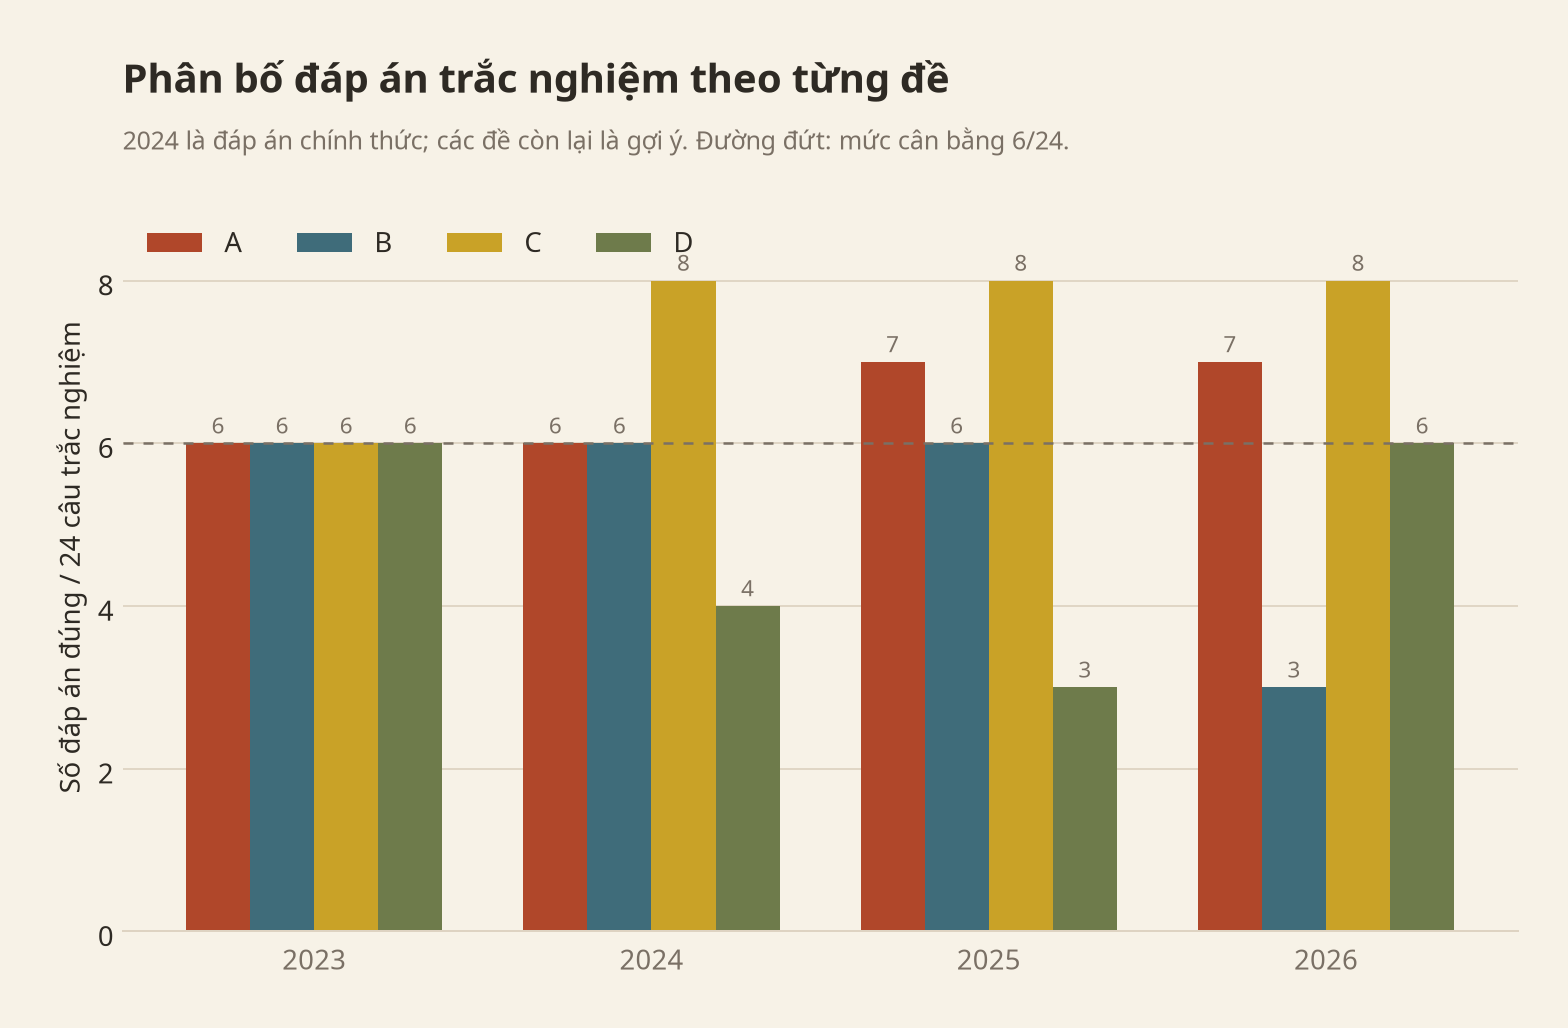
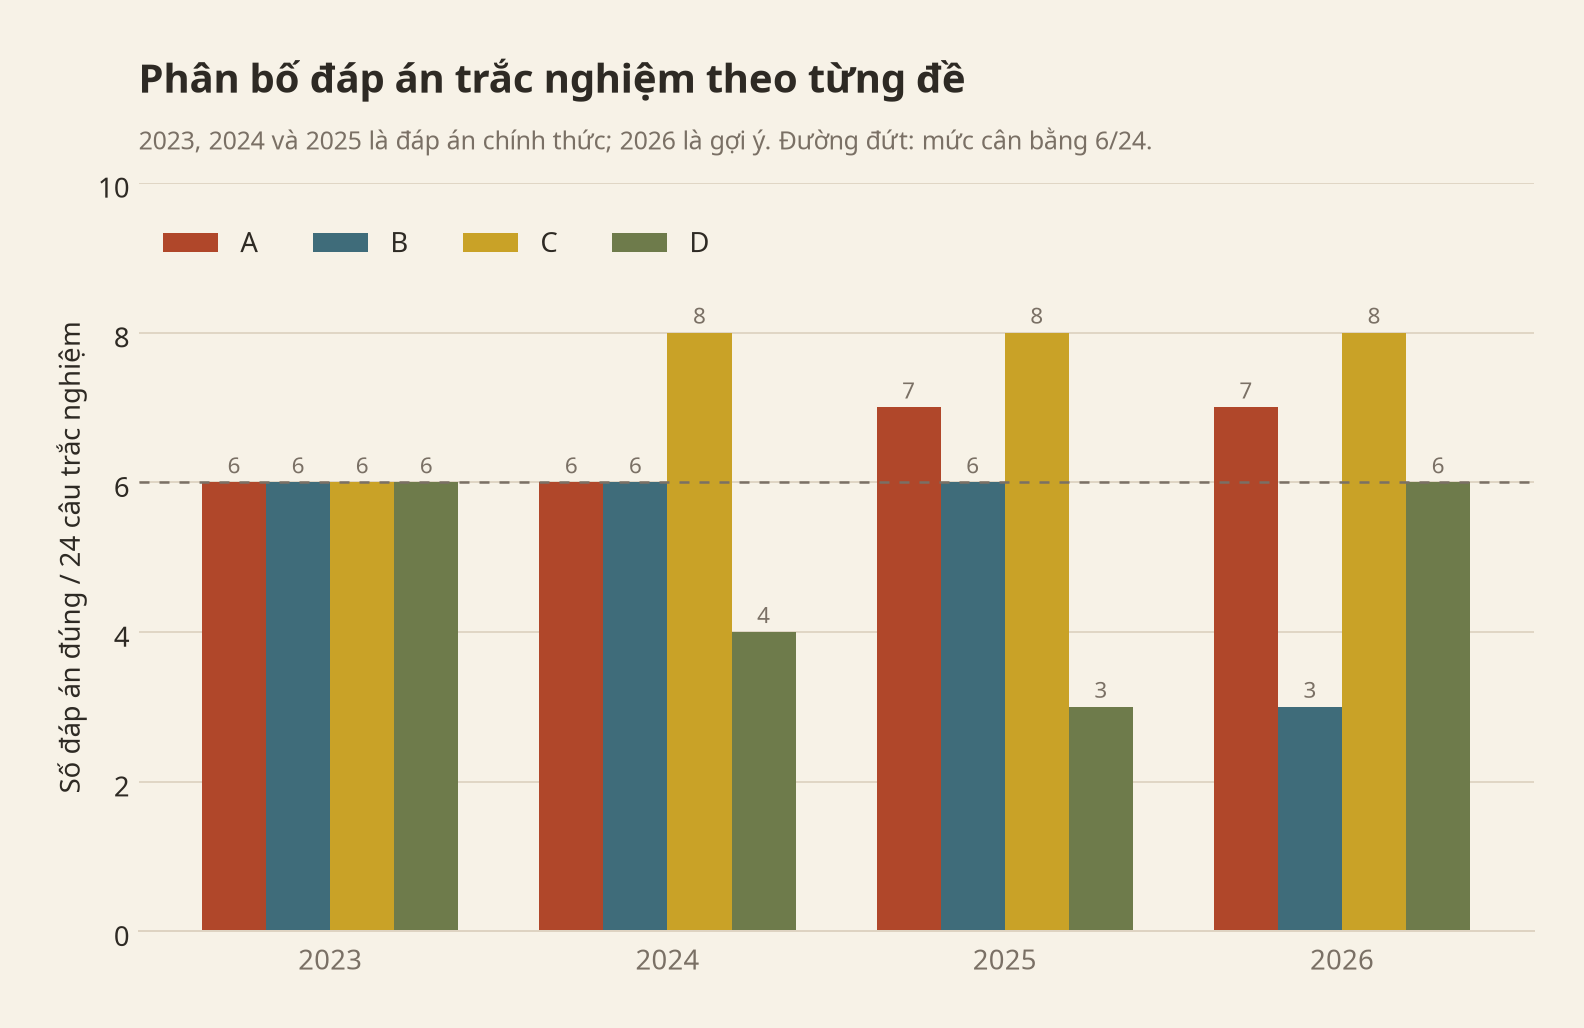
Mark 2023 and 2025 answer keys as official

diff --git a/bao-cao-phan-tich.html b/bao-cao-phan-tich.html
@@ -76,13 +76,12 @@ số thống kê.</li>
 thống kê theo từng phần.</li>
 </ul>
 <blockquote>
-<p><strong>Về đáp án:</strong> chỉ đề 2024–2025 có đáp án chính thức ở
-cuối PDF. Các đề 2023, 2025 và 2026 không kèm đáp án, nên phần đáp án
-trong báo cáo do người viết tự giải và được ghi rõ là <strong>gợi
-ý</strong>. Khi dùng để dạy hoặc ôn tập, thầy cô và học sinh nên đối
-chiếu lại với đáp án của Sở nếu có. Đề tham khảo 2026 gần như trùng với
-đề chính thức, nên chỉ dùng để kiểm chứng, không tính riêng trong thống
-kê.</p>
+<p><strong>Về đáp án:</strong> đề 2023, 2024 và 2025 đã có đáp án chính
+thức của Sở GD&amp;ĐT TP.HCM. Đáp án 2026 không có trong PDF đề nên vẫn
+là <strong>gợi ý</strong> của người viết; đề tham khảo 2026 gần như
+trùng với đề chính thức nên được dùng để kiểm chứng. Khi dạy hoặc ôn
+tập, thầy cô và học sinh nên ưu tiên đáp án chính thức; với 2026, nên
+kiểm tra lại với đáp án của Sở nếu có.</p>
 </blockquote>
 <hr />
 <h2 id="những-điểm-chính">1. Những điểm chính</h2>
@@ -156,7 +155,7 @@ loại</h2>
 <td>2023</td>
 <td>Chính thức</td>
 <td>4</td>
-<td>Tự giải – gợi ý</td>
+<td><strong>Chính thức</strong> (PDF đáp án)</td>
 </tr>
 <tr>
 <td><code>de-tieng-anh-2776.pdf</code></td>
@@ -170,7 +169,7 @@ loại</h2>
 <td>2025</td>
 <td>Chính thức</td>
 <td>4</td>
-<td>Tự giải – gợi ý</td>
+<td><strong>Chính thức</strong> (PDF đáp án)</td>
 </tr>
 <tr>
 <td><code>ThiEngLop10-2026.pdf</code></td>
@@ -185,7 +184,8 @@ loại</h2>
 <p>Đề tham khảo 2026 (<code>english-thanh-nien-3232.pdf</code>) gần như
 trùng với đề chính thức: cùng 40 câu, cùng đáp án, cùng bài đọc; chỉ
 khác cách ra phần VI. Vì vậy đề tham khảo không được tính riêng trong
-thống kê.</p>
+thống kê. Đáp án 2023 và 2025 đã được đối chiếu với các PDF đáp án chính
+thức của Sở GD&amp;ĐT TP.HCM.</p>
 </blockquote>
 <p><strong>Cách làm:</strong></p>
 <ul>
@@ -1377,13 +1377,14 @@ phương án</h2>
 </tr>
 </tbody>
 </table>
-<p>Nhận xét:</p>
+<p>Trước hết, đối chiếu với đáp án chính thức của Sở, toàn bộ đáp án
+2023 và 2025 trong báo cáo đều trùng khớp. Một số nhận xét:</p>
 <ul>
-<li>Theo đáp án gợi ý, đề 2023 cân bằng hoàn hảo: mỗi phương án A, B, C,
-D đều có 6 câu.</li>
-<li>Đề 2024 (chính thức) và 2025 (gợi ý) lệch về C (8 câu), còn D chỉ có
-4 và 3 câu.</li>
-<li>Đề 2026 chính thức lệch rõ hơn: C có 8 câu, B chỉ có 3 câu.</li>
+<li>Theo đáp án chính thức, đề 2023 cân bằng hoàn hảo: mỗi phương án A,
+B, C, D đều có 6 câu.</li>
+<li>Đề 2024 và 2025 (chính thức) lệch về C (8 câu), còn D chỉ có 4 và 3
+câu.</li>
+<li>Đề 2026 (gợi ý) lệch rõ hơn: C có 8 câu, B chỉ có 3 câu.</li>
 <li>Trong tổng số 96 câu trắc nghiệm, C chiếm 31,3%, còn D chỉ
 19,8%.</li>
 </ul>
@@ -1779,11 +1780,11 @@ nguyên kỹ năng</strong>. Học kỹ năng quan trọng hơn đoán nội dun
 <li>Mẫu gồm <strong>4 đề chính thức</strong> (2023–2026); không phải mẫu
 ngẫu nhiên đại diện cho mọi năm. Đề tham khảo 2026 gần như trùng với đề
 chính thức nên không được tính riêng để tránh trùng lặp.</li>
-<li>Đáp án 2023, 2025 và 2026 là <strong>tự giải</strong>, có thể sai ở
-một vài câu; đáp án 2024 là chính thức.</li>
+<li>Đáp án 2023, 2024 và 2025 là <strong>chính thức</strong>; đáp án
+2026 là <strong>tự giải</strong>, có thể sai ở một vài câu.</li>
 <li>Một số câu phụ thuộc hình ảnh (biển báo) hoặc phần văn bản bị lỗi
-khi trích PDF; đáp án được suy ra từ phương án và ảnh chụp trang đề, có
-ghi chú độ tin cậy.</li>
+khi trích PDF; với đề 2026, đáp án được suy ra từ phương án và ảnh chụp
+trang đề, có ghi chú độ tin cậy.</li>
 <li>Việc phân loại kỹ năng/mức nhận thức mang tính chủ quan; một câu có
 thể thuộc nhiều nhóm.</li>
 <li>Các chỉ số đọc hiểu như Flesch-Kincaid có trong
@@ -1794,6 +1795,8 @@ Anh và rất nhạy với độ dài đoạn.</li>
 đáp án chính thức, nên đáp án 2026 vẫn là <strong>gợi ý</strong>.</li>
 </ul>
 <h3 id="các-câu-cần-kiểm-chứng">Các câu cần kiểm chứng</h3>
+<p>Đáp án 2023, 2024 và 2025 đã được đối chiếu với bản chính thức. Toàn
+bộ đáp án 2026 vẫn là gợi ý; hai câu sau có độ tin cậy trung bình:</p>
 <table>
 <colgroup>
 <col style="width: 33%" />
@@ -1808,36 +1811,6 @@ Anh và rất nhạy với độ dài đoạn.</li>
 </tr>
 </thead>
 <tbody>
-<tr>
-<td>Câu 13, đề 2023</td>
-<td>Bản PDF in ra thiếu lời thoại của David, chỉ còn “David:”</td>
-<td>Đáp án A suy ra từ phản hồi “Still a little worried…”</td>
-</tr>
-<tr>
-<td>Câu 15, đề 2023</td>
-<td>Biển báo là hình, trích văn bản không thấy nội dung</td>
-<td>Đã chuyển trang đề thành ảnh; đáp án D</td>
-</tr>
-<tr>
-<td>Câu 10, đề 2024</td>
-<td>Lỗi chính tả “forger” thay vì “forget”</td>
-<td>Không ảnh hưởng đáp án B</td>
-</tr>
-<tr>
-<td>Câu 15, đề 2024</td>
-<td>Biển báo là hình</td>
-<td>Đã chuyển trang đề thành ảnh; đáp án C, khớp đáp án chính thức</td>
-</tr>
-<tr>
-<td>Câu 15, đề 2025</td>
-<td>Biển báo là hình</td>
-<td>Đã chuyển trang đề thành ảnh; đáp án A</td>
-</tr>
-<tr>
-<td>Câu 35–36, đề 2025</td>
-<td>Dạng điền 2–3 từ, có thể có biến thể</td>
-<td>Đáp án gợi ý theo mục từ <code>provide</code></td>
-</tr>
 <tr>
 <td>Câu 20, đề 2026</td>
 <td><code>fame</code> là phương án gần nghĩa nhất với “reputation”</td>
@@ -1899,9 +1872,9 @@ phương án còn lại</td>
 <h2 id="phụ-lục-a.-đáp-án-gợi-ý-câu-134">Phụ lục A. Đáp án gợi ý (câu
 1–34)</h2>
 <blockquote>
-<p><strong>2024 là đáp án chính thức.</strong> Các cột còn lại là gợi ý
-do người phân tích tự giải. <code>T</code> = True, <code>F</code> =
-False.</p>
+<p><strong>2023, 2024 và 2025 là đáp án chính thức.</strong> Riêng cột
+2026 là gợi ý do người viết tự giải. <code>T</code> = True,
+<code>F</code> = False.</p>
 </blockquote>
 <table>
 <thead>

diff --git a/build_dataset.py b/build_dataset.py
@@ -24,7 +24,7 @@ EXAMS = [
         "short": "2023",
         "file": "TS-10-TA-TPHCM-2023-2024-1.pdf",
         "official": True,
-        "key_status": "inferred",
+        "key_status": "official",
     },
     {
         "id": "2024",
@@ -40,7 +40,7 @@ EXAMS = [
         "short": "2025",
         "file": "de-thi-ts10-nam-hoc-2025-2026-mon-tieng-anh-72283.pdf",
         "official": True,
-        "key_status": "inferred",
+        "key_status": "official",
     },
     {
         "id": "2026",
@@ -312,7 +312,7 @@ def main() -> None:
                     "cognitive": cog,
                     "answer": answer,
                     "key_status": exam["key_status"],
-                    "confidence": conf,
+                    "confidence": "Official" if exam["key_status"] == "official" else conf,
                     "points": 0.25,
                     "note": note,
                 }

diff --git a/make_charts.py b/make_charts.py
@@ -231,12 +231,12 @@ for k, (letter, col) in enumerate(zip(letters, letter_colors)):
         ax.text(bar.get_x() + bar.get_width() / 2, v + 0.12, str(v), ha="center", fontsize=9, color=MUTED)
 ax.axhline(6, color=MUTED, linestyle=(0, (4, 4)), linewidth=1)
 ax.set_xticks(x, ["2023", "2024", "2025", "2026"], fontsize=11)
-ax.set_ylim(0, 9.2)
+ax.set_ylim(0, 10)
 ax.set_ylabel("Số đáp án đúng / 24 câu trắc nghiệm")
 title_block(
     ax,
     "Phân bố đáp án trắc nghiệm theo từng đề",
-    "2024 là đáp án chính thức; các đề còn lại là gợi ý. Đường đứt: mức cân bằng 6/24.",
+    "2023, 2024 và 2025 là đáp án chính thức; 2026 là gợi ý. Đường đứt: mức cân bằng 6/24.",
 )
 ax.legend(ncol=4, frameon=False, loc="upper left", bbox_to_anchor=(0, 0.98))
 clean_axes(ax, grid_axis="y")

diff --git a/README.md b/README.md
@@ -37,7 +37,7 @@ Các cột chính trong `exam_items.csv`:
 | `cognitive` | Nhận biết / Vận dụng / Suy luận / Sản sinh |
 | `answer` | Đáp án |
 | `key_status` | `official` hoặc `inferred` |
-| `confidence` | Độ tin cậy của đáp án tự giải |
+| `confidence` | Độ tin cậy của đáp án |
 
 ## Tạo lại
 
@@ -61,7 +61,7 @@ pandoc BAO-CAO-PHAN-TICH.md \
 
 ## Lưu ý
 
-- Chỉ đề 2024–2025 có đáp án chính thức. Các đáp án còn lại là gợi ý, được đánh dấu `inferred` trong CSV.
+- Đề 2023, 2024, 2025 có đáp án chính thức; riêng 2026 là gợi ý, được đánh dấu `inferred` trong CSV.
 - Đề 2026 là **đề chính thức**; đề tham khảo 2026 gần như trùng với đề chính thức nên không được tính riêng trong thống kê.
 - Việc phân loại kỹ năng/mức nhận thức là một cách mã hoá chủ quan; nên dùng để so sánh tương đối.
 - Các PDF gốc không được đưa vào repo; dữ liệu đã phân loại nằm trong `exam_items.csv` và `passages.csv`.
